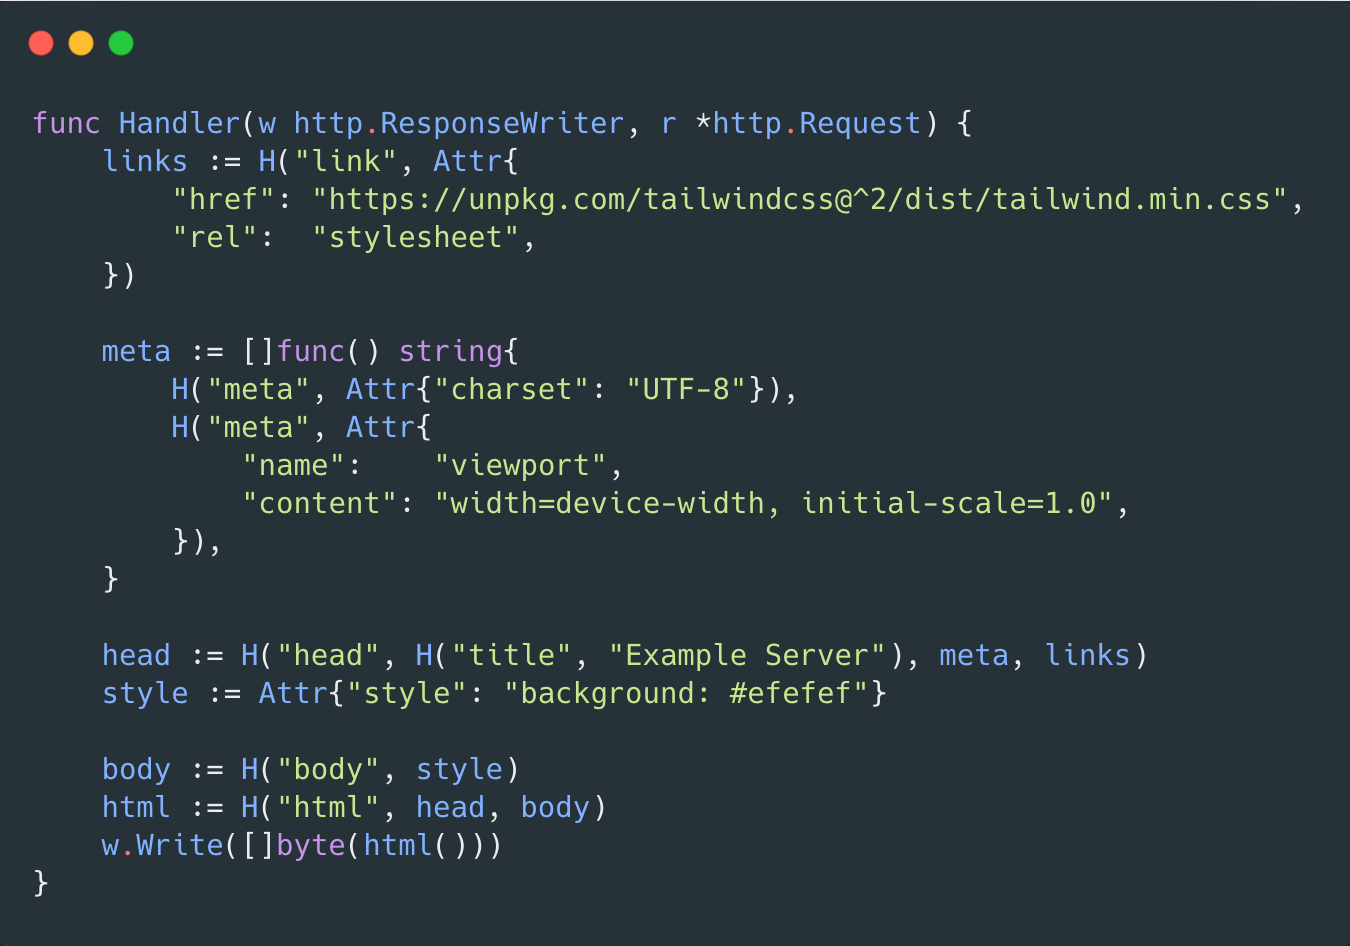
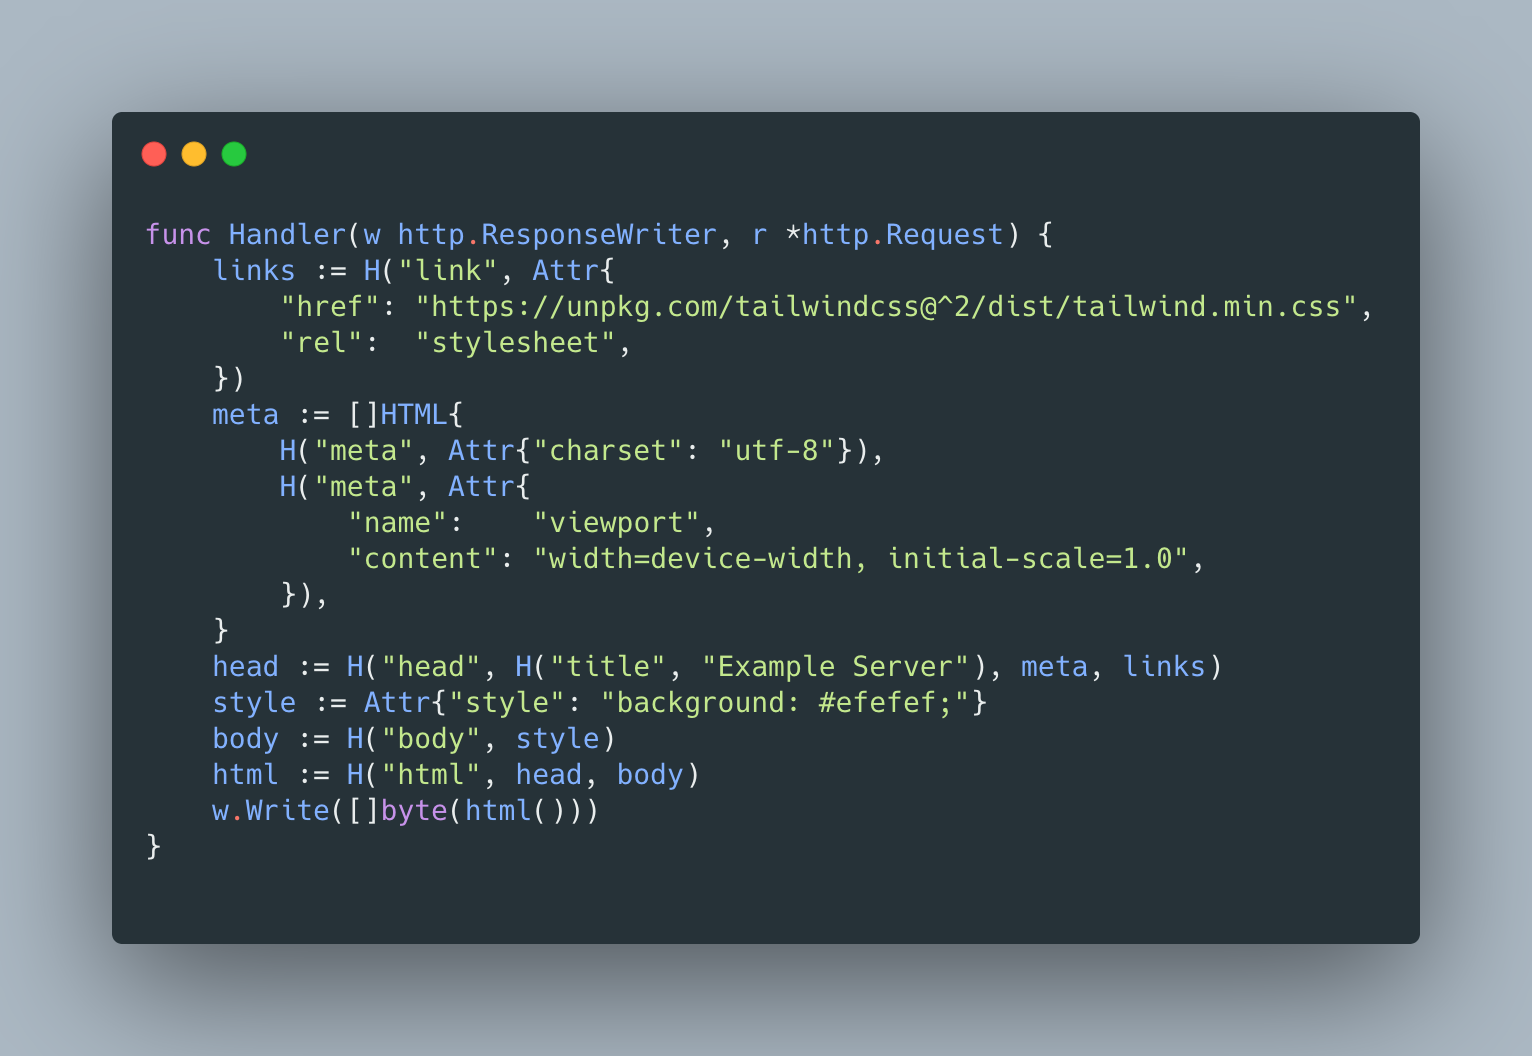
update carbon screenshot and fix docs

diff --git a/doc.go b/doc.go
@@ -18,7 +18,7 @@ Basic usage:
 Lists can be easily created without needing to embed a `range / end` in a template:
 
 
-	items := []func() string{H("li", "item one"), H("li", "item two")}
+	items := []HTML{H("li", "item one"), H("li", "item two")}
 
 	element := H("ul", Attr{"class": "bg-grey-50"})
 

diff --git a/carbon.md b/carbon.md
@@ -1,0 +1,26 @@
+### Carbon.now.sh
+
+https://carbon.now.sh/68eRaNf1Tvi1t0q8I0Dq
+
+```go
+
+func Handler(w http.ResponseWriter, r *http.Request) {
+	links := H("link", Attr{
+		"href": "https://unpkg.com/tailwindcss@^2/dist/tailwind.min.css",
+		"rel":  "stylesheet",
+	})
+	meta := []HTML{
+		H("meta", Attr{"charset": "utf-8"}),
+		H("meta", Attr{
+			"name":    "viewport",
+			"content": "width=device-width, initial-scale=1.0",
+		}),
+	}
+	head := H("head", H("title", "Example Server"), meta, links)
+	style := Attr{"style": "background: #efefef;"}
+	body := H("body", style)
+	html := H("html", head, body)
+	w.Write([]byte(html()))
+}
+
+```
